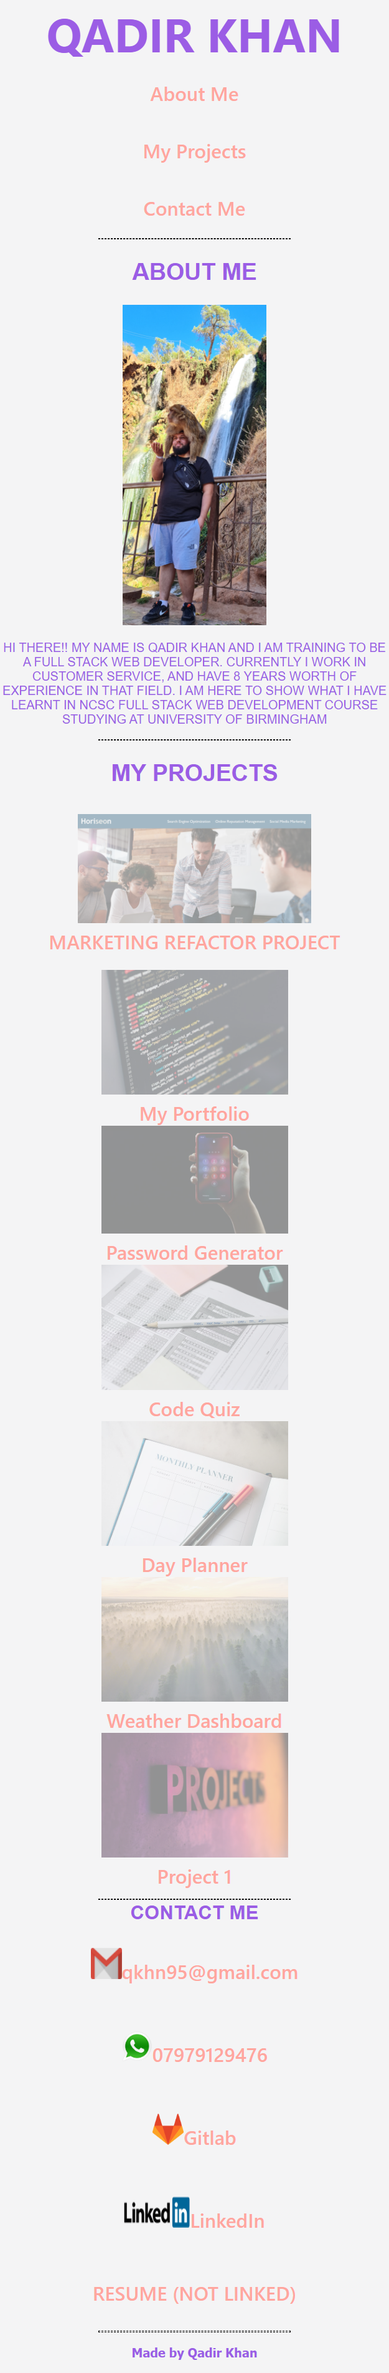
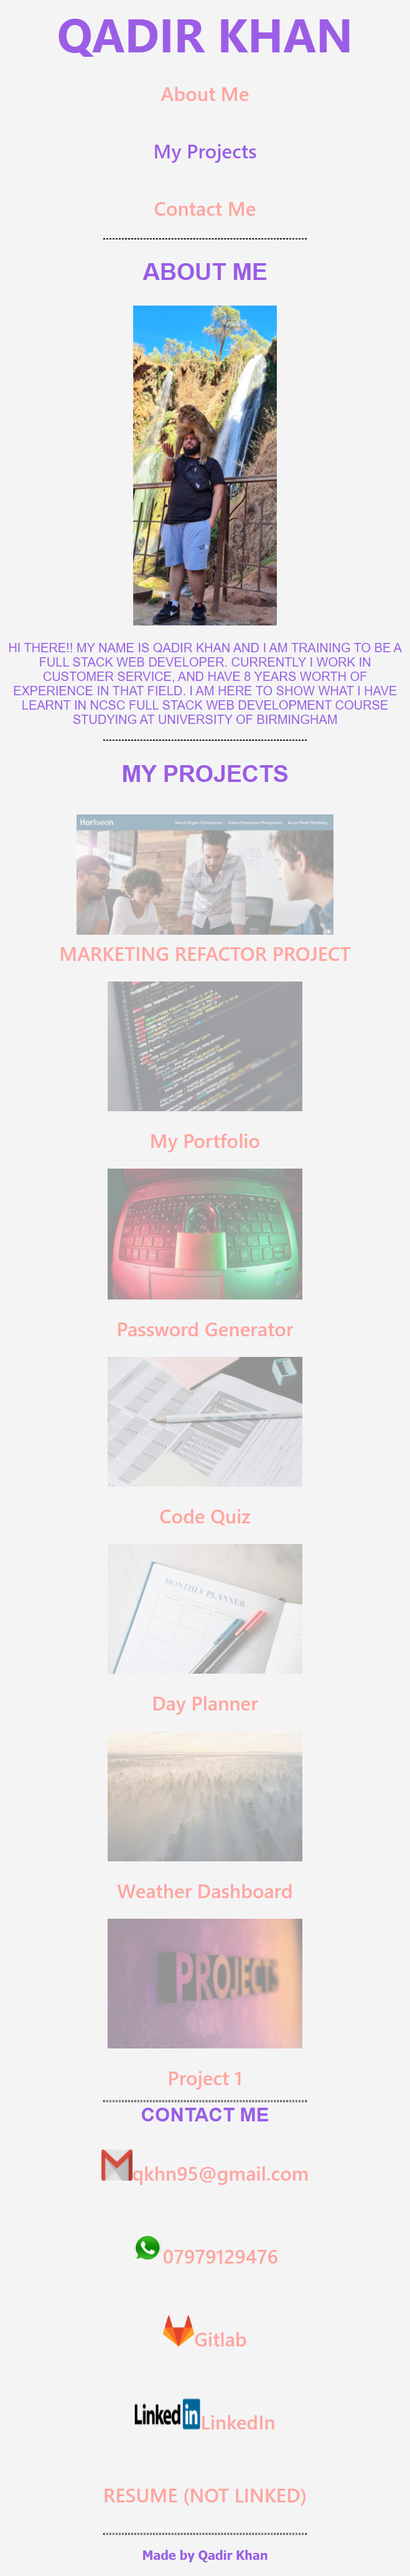
final push

Changed region(s): [[0.0304, 0.0, 0.9728, 1.0]]

diff --git a/index.html b/index.html
@@ -58,36 +58,36 @@
       <a class="nav-link" href="https://qkhn95.github.io/marketing-refactor/" target="_blank">
       <img src="./assets/images/horiseon-screen.png" alt="horiseon-project">
       <div>MARKETING REFACTOR PROJECT</div></a>
-    </section>
-
-    <section class="card-container">
-      <div>
+ 
+    <div class="flex-container">
+      <div class="card-container">
       <a class="nav-link" href="https://qkhn95.github.io/marketing-refactor/" target="_blank">
         <img src="./assets/images/my-portfolio-screen.jpg" alt="my-portfolio">
         <div>My Portfolio</div></a>
       </div>
-      <div>    <a class="nav-link" href="https://qkhn95.github.io/marketing-refactor/" target="_blank">
+      <div class="card-container">    <a class="nav-link" href="https://qkhn95.github.io/marketing-refactor/" target="_blank">
         <img src="./assets/images/password-generator.jpg" alt="password-generator">
         <div>Password Generator</div></a>
       </div>
-      <div>      <a class="nav-link" href="https://qkhn95.github.io/marketing-refactor/" target="_blank">
+      <div class="card-container">      <a class="nav-link" href="https://qkhn95.github.io/marketing-refactor/" target="_blank">
         <img src="./assets/images/code-quiz.jpg" alt="code-quiz">
         <div>Code Quiz</div></a>
       </div>
-      <div> <a class="nav-link" href="https://qkhn95.github.io/marketing-refactor/" target="_blank">
+      <div class="card-container"> <a class="nav-link" href="https://qkhn95.github.io/marketing-refactor/" target="_blank">
         <img src="./assets/images/day-planner.jpg" alt="day planner">
         <div>Day Planner</div></a>
       </div>
-      <div>
+      <div class="card-container">
         <a class="nav-link" href="https://qkhn95.github.io/marketing-refactor/" target="_blank">
           <img src="./assets/images/weather-dashboard.jpg" alt="weather-dashboard">
           <div>Weather Dashboard</div></a>
       </div>
-      <div>
+      <div class="card-container">
         <a class="nav-link" href="https://qkhn95.github.io/marketing-refactor/" target="_blank">
           <img src="./assets/images/project-1.jpg" alt="project-1">
           <div>Project 1</div></a>
-      </div>      
+      </div> 
+    </div>     
     </section>
   
   </main>  
@@ -149,7 +149,7 @@
               class="nav-link"
               href="https://www.google.co.uk"
               target="_blank"
-              />RESUME (NOT LINKED)</a
+              >RESUME (NOT LINKED)</a
             >
           </div>
         </div>
@@ -159,7 +159,7 @@
     <hr />
 
     <!----Footer section-->
-    
+
   <footer>
       <p class="footer-wording">Made by Qadir Khan</p1>
   </footer>

diff --git a/assets/css/style.css b/assets/css/style.css
@@ -23,6 +23,8 @@ body {
   text-align: center;
 }
 
+/* navigation link */
+
 .nav-container {
   display: flex;
   flex-direction: row;
@@ -51,6 +53,7 @@ body {
 .nav-link:hover {
   color: var(--amethyst);
 }
+/* ............... */
 
 h1 {
   margin: 0;
@@ -108,8 +111,6 @@ div.absolute {
 .main {
   display: flex;
   margin: 2%;
-  flex-direction: row;
-  justify-content: center;
 }
 
 .card-1-container {
@@ -133,19 +134,19 @@ div.absolute {
   transition: opacity 1s;
 }
 
-.card-container {
+.flex-container {
   display: flex;
-  flex-direction: row;
-  justify-content: space-between;
-  padding: 10px;
-  text-align: row;
-  border-style: solid;
-  border-width: 1.5px;
-  margin: 5;
+  flex-wrap: wrap;
+  justify-content: space-around;
 }
 
 .card-container img {
-  width: 400px;
+  display: flex;
+  flex-direction: row;
+  flex-wrap: wrap;
+  padding: 15px;
+  margin: 5px;
+  width: 500px;
   opacity: 40%;
 }
 
@@ -237,7 +238,7 @@ hr {
   .card-1-container img {
     flex-direction: column;
     align-items: center;
-    width: 300px;
+    width: 330px;
   }
 
   .centered {
@@ -246,7 +247,7 @@ hr {
     font-size: 20px;
   }
 
-  .card-2-container {
+  .flex-container {
     flex-direction: column;
     align-items: center;
   }
@@ -260,7 +261,7 @@ hr {
   .card-container img {
     flex-direction: column;
     align-items: center;
-    width: 240px;
+    width: 280px;
   }
 
   .centered-1 {

diff --git a/README.md b/README.md
@@ -1,6 +1,6 @@
 # my-portfolio
 
-## Updates
+# Updates
 
 ## 1 - Basic set up of how I want website to look
 
@@ -32,19 +32,31 @@ Footer was not working on media display mode so this has now changed to section 
 
 Added the individual project cards on to webpage. Having issues with flexbox as cards are overlapping the page. However cards are working media query mode
 
-## Technologies
+## 8 - Project cards section working
+
+Card section is now working with cards aligned in 2 rows!!
+
+# ALL PROJECT LINKS ARE LINKED TO HORISEON WEBPAGE
+
+# Technologies
 
 - HTML
 - CSS
 - Github Pages
 - coolers.co
 - unsplash.com
-- Paint (to edit screenshots)
+- Paint (to edit screenshot)
 
-## Screenshots
+# Screenshots
 
 ### DESKTOP VIEW
+
+![desktop view](./assets/images/desktop-screenshot.png)
 
 ### MOBILE VIEW
 
 ![mobile view](./assets/images/mobile-screenshot.png)
+
+# GITHUB LINK
+
+https://github.com/qkhn95/my-portfolio/tree/dev
